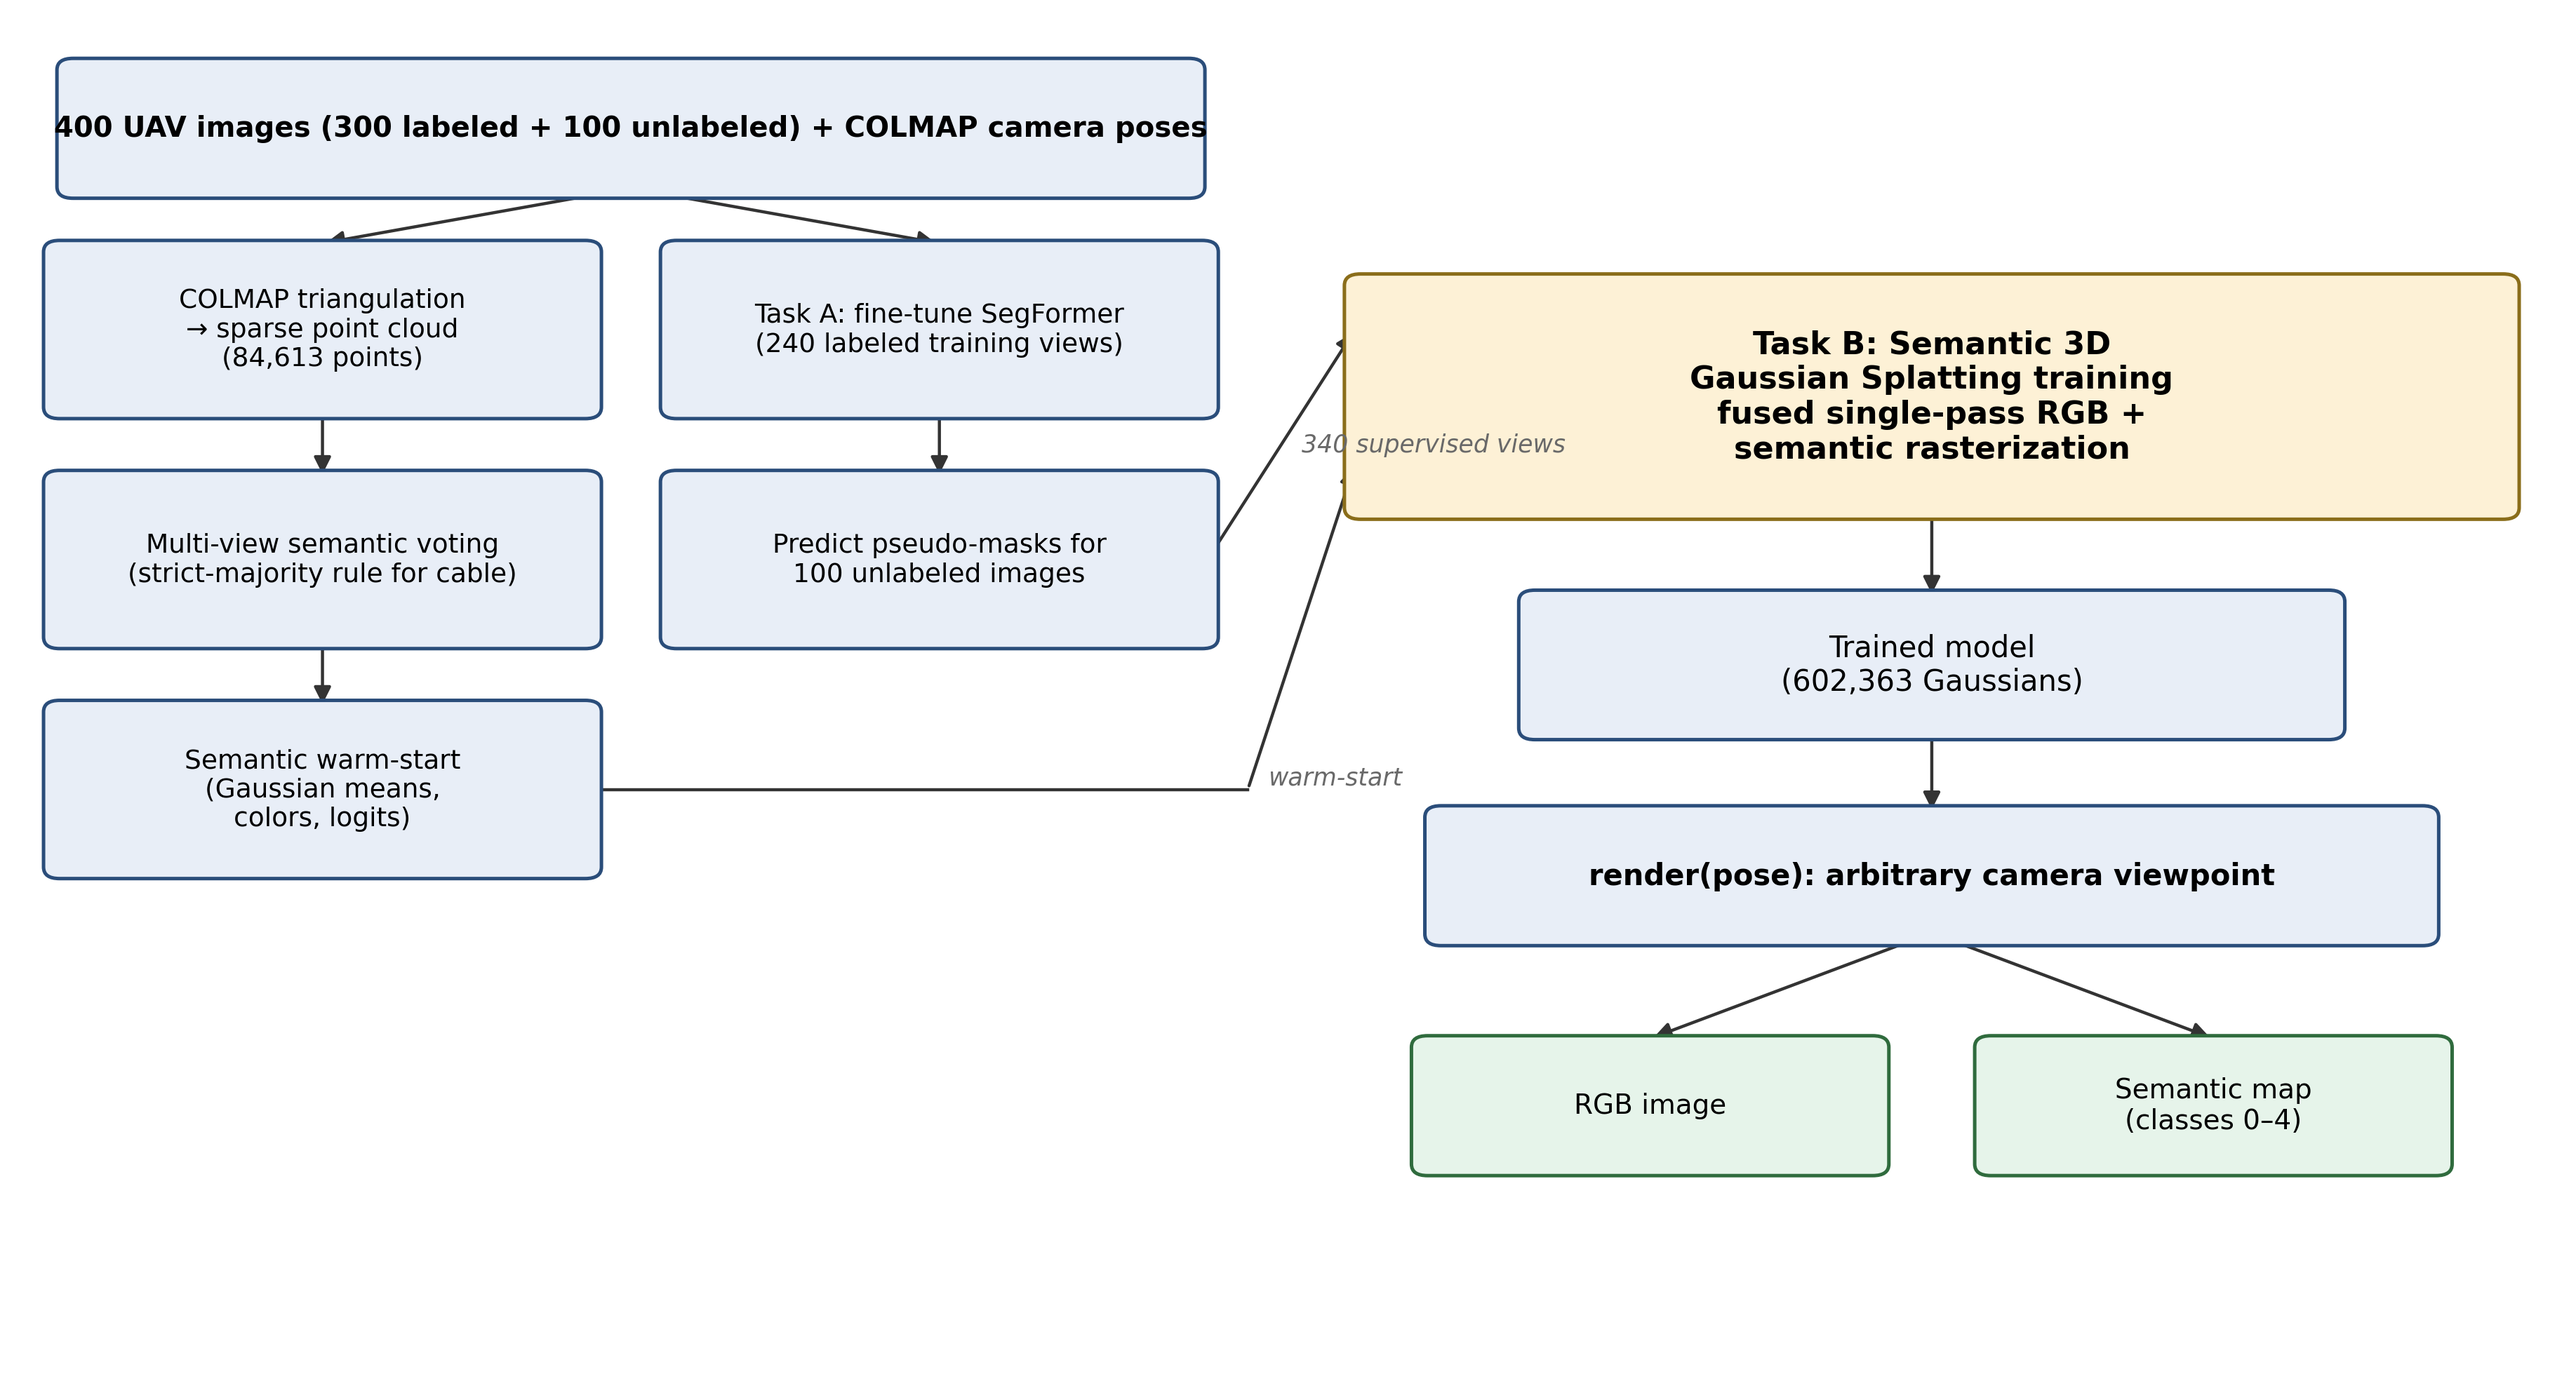
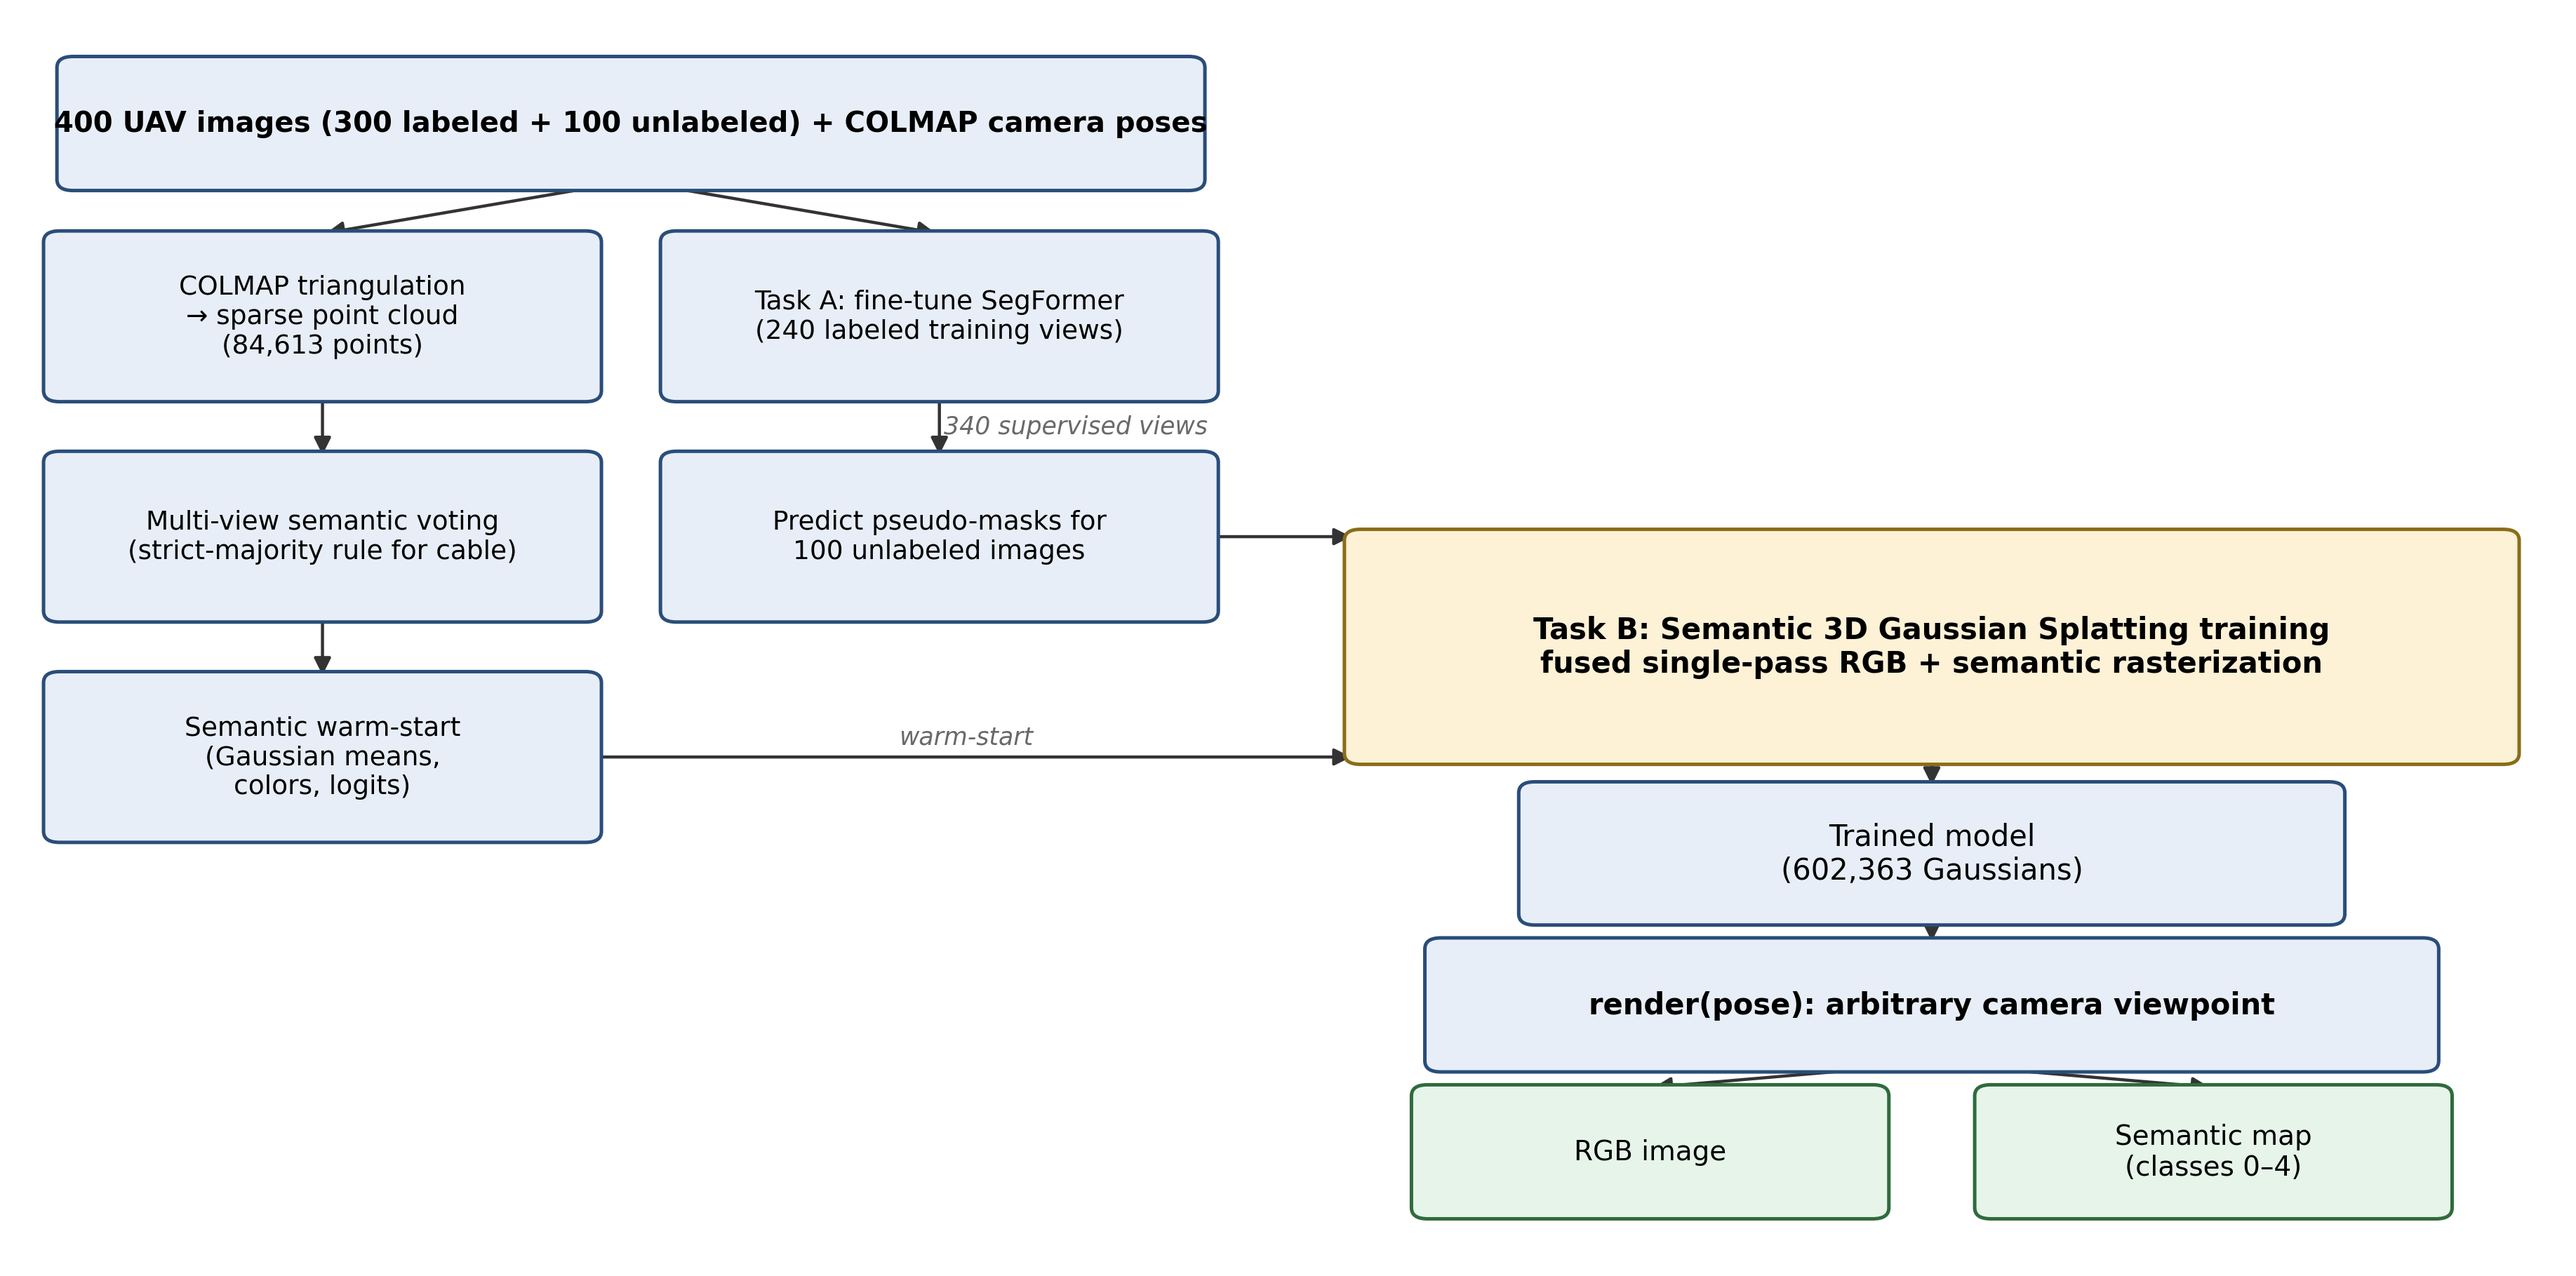
fix: properly align Figure 1's horizontal layout, remove crossings/overlap
Two bugs in the previous horizontal layout: (1) the "340 supervised
views" connector used the merge box's left-center point instead of its
top-left corner, so it ran diagonally instead of horizontally as
intended; (2) that connector's label sat on top of the "Predict
pseudo-masks" box because the line itself is too short (1.1 units) for
a midpoint-offset label to clear it.

Fixed by sizing Task B's box so its top-left/bottom-left corners land
exactly on the two source rows' y-coordinates (both cross-over
connectors are now perfectly horizontal straight lines with no
crossing), and by placing the short connector's label in the clear gap
between rows 1 and 2 instead of on the line. Also removed the
now-unused _elbow_arrow helper. Full suite green (75/75).

Changed region(s): [[0.0, 0.1847, 0.9937, 0.9544], [0.0, 0.0308, 0.4658, 0.1847], [0.2795, 0.2155, 0.4348, 0.2771]]

diff --git a/src/evaluation/plot_pipeline_diagram.py b/src/evaluation/plot_pipeline_diagram.py
@@ -47,17 +47,6 @@ def _arrow(ax, p_from, p_to, label=None, label_offset=(0.15, 0)):
                 fontsize=12.5, style="italic", color="dimgray", zorder=3)
 
 
-def _elbow_arrow(ax, p_from, bend_xy, p_to, label=None):
-    """A two-segment connector (straight line then arrow) that bends at `bend_xy`, so it can
-    route around boxes that a direct diagonal line from `p_from` to `p_to` would cut through."""
-    ax.plot([p_from[0], bend_xy[0]], [p_from[1], bend_xy[1]],
-            color=ARROW_COLOR, linewidth=1.6, zorder=1)
-    _arrow(ax, bend_xy, p_to)
-    if label:
-        ax.text(bend_xy[0] + 0.15, bend_xy[1], label, ha="left", va="bottom",
-                fontsize=12.5, style="italic", color="dimgray", zorder=3)
-
-
 def plot_pipeline_diagram(output_path: str) -> str:
     fig, ax = plt.subplots(figsize=(12, 15), dpi=200)
     ax.set_xlim(0, 10)
@@ -133,65 +122,76 @@ def plot_pipeline_diagram(output_path: str) -> str:
 def plot_pipeline_diagram_horizontal(output_path: str) -> str:
     """Same content as `plot_pipeline_diagram`, laid out left-to-right instead of top-to-bottom:
     input + preprocessing + Task A on the left, Task B training through to the rendered outputs
-    on the right, connected by arrows crossing the middle."""
-    fig, ax = plt.subplots(figsize=(19, 10), dpi=200)
+    on the right. Task B's box is deliberately sized so its top-left and bottom-left corners
+    land exactly on the y-coordinates of the two left-column source boxes (pseudo-masks and
+    warm-start respectively), so both cross-over connectors are perfectly horizontal straight
+    lines instead of diagonals or elbows - no crossings, no arrows cutting through boxes."""
+    fig, ax = plt.subplots(figsize=(19, 9.2), dpi=200)
     ax.set_xlim(0, 19)
-    ax.set_ylim(-1.6, 12.6)
+    ax.set_ylim(-1.0, 12.6)
     ax.axis("off")
 
     sub_l, sub_r = 2.3, 6.9
     bw, bh = 4.0, 1.7
+    row1_y, row2_y, row3_y = 9.3, 6.9, 4.5
 
-    # Left half: input
+    # Left column: input
     in_b, in_t, in_l, in_r = _box(
         ax, 4.6, 11.4, 8.4, 1.3,
         "400 UAV images (300 labeled + 100 unlabeled) + COLMAP camera poses",
         fontsize=14.5, fontweight="bold",
     )
 
-    # Left half, sub-branch chains
-    a1_b, a1_t, a1_l, a1_r = _box(ax, sub_l, 9.3, bw, bh, "COLMAP triangulation\n→ sparse point cloud\n(84,613 points)", fontsize=13.5)
-    b1_b, b1_t, b1_l, b1_r = _box(ax, sub_r, 9.3, bw, bh, "Task A: fine-tune SegFormer\n(240 labeled training views)", fontsize=13.5)
+    # Left column, two sub-branch chains
+    a1_b, a1_t, a1_l, a1_r = _box(ax, sub_l, row1_y, bw, bh, "COLMAP triangulation\n→ sparse point cloud\n(84,613 points)", fontsize=13.5)
+    b1_b, b1_t, b1_l, b1_r = _box(ax, sub_r, row1_y, bw, bh, "Task A: fine-tune SegFormer\n(240 labeled training views)", fontsize=13.5)
 
-    a2_b, a2_t, a2_l, a2_r = _box(ax, sub_l, 6.9, bw, bh, "Multi-view semantic voting\n(strict-majority rule for cable)", fontsize=13.5)
-    b2_b, b2_t, b2_l, b2_r = _box(ax, sub_r, 6.9, bw, bh, "Predict pseudo-masks for\n100 unlabeled images", fontsize=13.5)
+    a2_b, a2_t, a2_l, a2_r = _box(ax, sub_l, row2_y, bw, bh, "Multi-view semantic voting\n(strict-majority rule for cable)", fontsize=13.5)
+    b2_b, b2_t, b2_l, b2_r = _box(ax, sub_r, row2_y, bw, bh, "Predict pseudo-masks for\n100 unlabeled images", fontsize=13.5)
 
-    a3_b, a3_t, a3_l, a3_r = _box(ax, sub_l, 4.5, bw, bh, "Semantic warm-start\n(Gaussian means,\ncolors, logits)", fontsize=13.5)
+    a3_b, a3_t, a3_l, a3_r = _box(ax, sub_l, row3_y, bw, bh, "Semantic warm-start\n(Gaussian means,\ncolors, logits)", fontsize=13.5)
 
-    # Right half: Task B onward
+    # Right column: Task B sized so its left edge spans exactly [row3_y, row2_y] -> both
+    # incoming connectors land on its corners and run perfectly horizontal.
     right_x = 14.3
+    merge_h = row2_y - row3_y
+    merge_cy = (row2_y + row3_y) / 2
     merge_b, merge_t, merge_l, merge_r = _box(
-        ax, right_x, 8.6, 8.6, 2.4,
-        "Task B: Semantic 3D\nGaussian Splatting training\nfused single-pass RGB +\nsemantic rasterization",
-        face=MERGE_COLOR, edge=MERGE_EDGE, fontsize=16, fontweight="bold",
+        ax, right_x, merge_cy, 8.6, merge_h,
+        "Task B: Semantic 3D Gaussian Splatting training\nfused single-pass RGB + semantic rasterization",
+        face=MERGE_COLOR, edge=MERGE_EDGE, fontsize=15, fontweight="bold",
     )
-    tm_b, tm_t, tm_l, tm_r = _box(ax, right_x, 5.8, 6.0, 1.4, "Trained model\n(602,363 Gaussians)", fontsize=15)
-    r_b, r_t, r_l, r_r = _box(ax, right_x, 3.6, 7.4, 1.3, "render(pose): arbitrary camera viewpoint",
+    tm_b, tm_t, tm_l, tm_r = _box(ax, right_x, merge_b[1] - 1.05, 6.0, 1.4, "Trained model\n(602,363 Gaussians)", fontsize=15)
+    r_b, r_t, r_l, r_r = _box(ax, right_x, tm_b[1] - 0.95, 7.4, 1.3, "render(pose): arbitrary camera viewpoint",
                                fontsize=15, fontweight="bold")
-    o1_b, o1_t, o1_l, o1_r = _box(ax, right_x - 2.1, 1.2, 3.4, 1.3, "RGB image", face=OUTPUT_COLOR, edge=OUTPUT_EDGE, fontsize=14)
-    o2_b, o2_t, o2_l, o2_r = _box(ax, right_x + 2.1, 1.2, 3.4, 1.3, "Semantic map\n(classes 0–4)", face=OUTPUT_COLOR, edge=OUTPUT_EDGE, fontsize=14)
+    out_cy = r_b[1] - 0.95
+    o1_b, o1_t, o1_l, o1_r = _box(ax, right_x - 2.1, out_cy, 3.4, 1.3, "RGB image", face=OUTPUT_COLOR, edge=OUTPUT_EDGE, fontsize=14)
+    o2_b, o2_t, o2_l, o2_r = _box(ax, right_x + 2.1, out_cy, 3.4, 1.3, "Semantic map\n(classes 0–4)", face=OUTPUT_COLOR, edge=OUTPUT_EDGE, fontsize=14)
 
-    # Arrows within left half
+    # Arrows within left column
     _arrow(ax, (4.6 - 0.1, in_b[1]), (sub_l, a1_t[1] + 0.05))
     _arrow(ax, (4.6 + 0.1, in_b[1]), (sub_r, b1_t[1] + 0.05))
     _arrow(ax, a1_b, a2_t)
     _arrow(ax, a2_b, a3_t)
     _arrow(ax, b1_b, b2_t)
 
-    # Cross-over arrows: left half -> Task B (right half). warm-start routes below the
-    # pseudo-mask box (a straight diagonal from a3 would otherwise cut through it) via an elbow;
-    # the pseudo-mask arrow is short enough to go direct.
-    _elbow_arrow(ax, a3_r, (sub_r + bw / 2 + 0.3, a3_r[1]), (merge_l[0], merge_l[1] - 0.7), label="warm-start")
-    _arrow(ax, b2_r, (merge_l[0], merge_l[1] + 0.7), label="340 supervised views")
+    # Cross-over connectors: perfectly horizontal by construction (see merge_h/merge_cy above).
+    # The pseudo-mask connector is short (only 1.1 units), so its label is placed in the clear
+    # gap between rows 1 and 2 instead of on the line itself, where it would collide with the
+    # "Predict pseudo-masks" box; the warm-start connector is long enough for a directly
+    # above-the-line label.
+    _arrow(ax, b2_r, (merge_l[0], row2_y))
+    ax.text(b2_r[0], (row1_y - bh / 2 + row2_y + bh / 2) / 2, "340 supervised views",
+            ha="right", va="center", fontsize=12.5, style="italic", color="dimgray", zorder=3)
+    _arrow(ax, a3_r, (merge_l[0], row3_y), label="warm-start", label_offset=(-0.55, 0.22))
 
-    # Right half chain
-    fig_arrows = [
+    # Right column chain
+    for p_from, p_to in [
         (merge_b, tm_t),
         (tm_b, r_t),
         ((right_x - 0.1, r_b[1]), (right_x - 2.1, o1_t[1] + 0.05)),
         ((right_x + 0.1, r_b[1]), (right_x + 2.1, o2_t[1] + 0.05)),
-    ]
-    for p_from, p_to in fig_arrows:
+    ]:
         _arrow(ax, p_from, p_to)
 
     fig.tight_layout()
